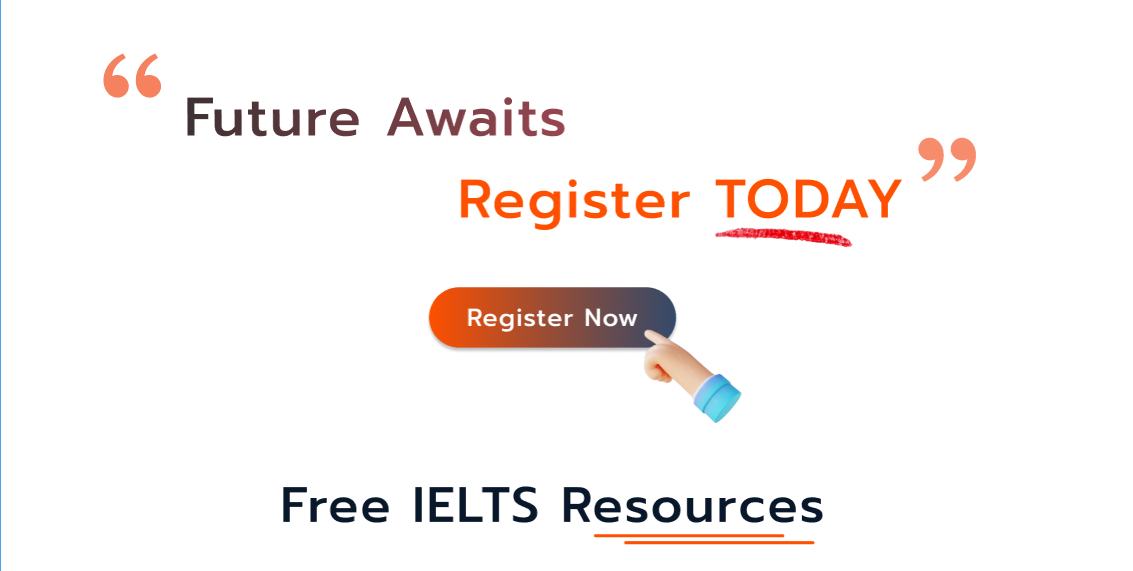
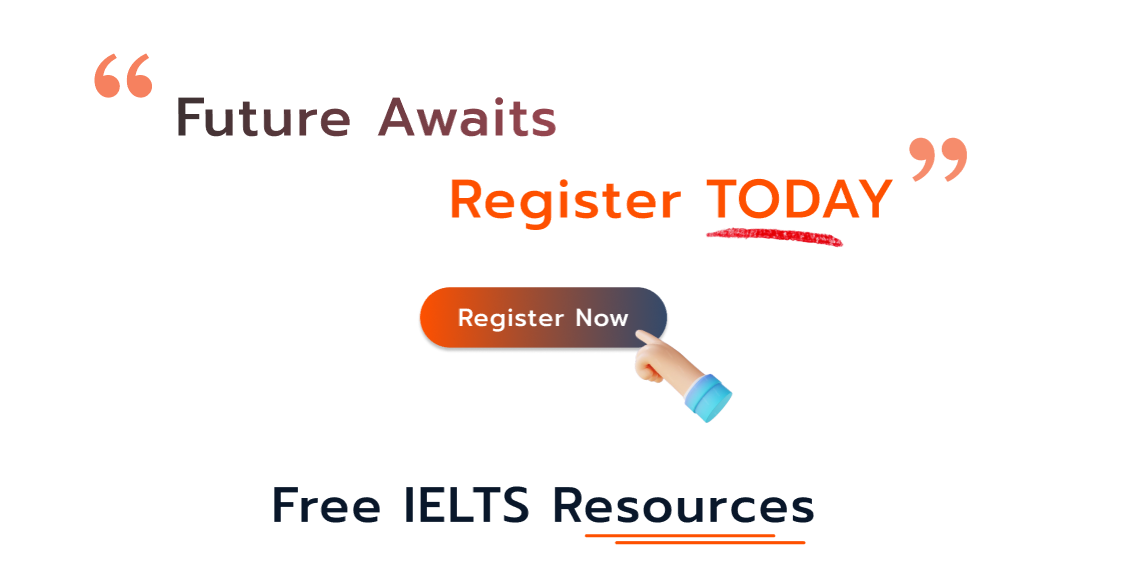
react

diff --git a/public/css/style.css b/public/css/style.css
@@ -488,6 +488,67 @@ border-radius: 30px;
   height: 200px;
 }
 
+.regimg{
+  padding-bottom: 10vh;
+  text-align: center;
+}
+.regimg img{
+  width: 70vw;
+  height: 80vh;
+}
+
+.exam-patern {
+  /* Dark grey background for the container */
+  padding: 20px;
+  border-radius: 8px;
+  width: fit-content;
+  margin: 20px auto;
+  color: #fff; /* White text color for the content */
+}
+
+
+.exam-patern h1{
+  text-align: center;
+  color: black;
+}
+.exam-patern table {
+  width: 100%;
+  border-collapse: collapse;
+  font-family: Arial, sans-serif;
+}
+
+.exam-patern th, .exam-patern td {
+  padding: 10px 15px;
+  text-align: left;
+  border-bottom: 1px solid #ffffff; 
+  color: black;/* Slightly lighter border for separation */
+}
+
+.exam-patern th {
+  width: 30vw;
+  font-size: 25px;
+  height: 7vh;
+  background-color: #555; /* Medium grey for headers */
+  color: #f0f0f0; /* Light text color */
+  font-weight: bold;
+}
+
+.exam-patern td {
+  font-size: 25px;
+  width: 30vw;
+  height: 7vh;
+  background-color: #cacaca; /* Darker background for table cells */
+  color: #000000; /* Light grey text for readability */
+}
+
+.exam-patern tr:nth-child(even) td {
+  background-color: #ffffff; /* Lighter grey for even rows */
+}
+
+.exam-patern tr:hover {
+  background-color: #555; /* Slight hover effect with lighter grey */
+}
+
 @media (max-width: 575.98px) {
   .h2,
   h2 {

diff --git a/src/components/pattern/Pattern.jsx b/src/components/pattern/Pattern.jsx
@@ -1,0 +1,40 @@
+import React from 'react'
+
+function Pattern() {
+  return (
+    <div className='exam-patern'>
+        
+      <h1>Pattern</h1>
+        <table>
+          <tr>
+            <th>Section Name</th>
+            <th>Total Questions</th>
+            <th>Sectional Time</th>
+          </tr>
+          <tr>
+            <td>Listening</td>
+            <td>40 Questions</td>
+            <td>30 mins</td>
+          </tr>
+          <tr>
+            <td>Reading     </td>
+            <td>40 Questions</td>
+            <td>60 mins</td>
+          </tr>
+          <tr>
+            <td>Writing</td>
+            <td>2 Tasks</td>
+            <td>60 mins</td>
+          </tr>
+          <tr>
+            <td>Speaking</td>
+            <td>2 Tasks</td>
+            <td>11-14 mins</td>
+          </tr>
+        </table>
+      </div>
+  )
+}
+
+export default Pattern
+

diff --git a/src/pages/home/home-2/index.jsx b/src/pages/home/home-2/index.jsx
@@ -14,6 +14,10 @@ import Exampage from "@/pages/exampage";
 import BecameSellerPage from "@/pages/become-seller";
 import Examwhat from "@/components/examwhat/Examwhat";
 import OurBlog2 from "@/components/section/OurBlog2";
+import Registerimg from "@/components/registerimg/Registerimg";
+import Pattern from "@/components/pattern/Pattern";
+
+
 const metadata = {
   title: "Freeio - Freelance Marketplace ReactJs Template | Home 2",
 };
@@ -25,6 +29,8 @@ export default function HomePage2() {
       <Exampage/>
       <Examwhat/>
       <OurBlog2/>
+      <Registerimg />
+      <Pattern/>
       <Hero2 />
       <NeedSomething2 />
       <PopularService1 />

diff --git a/src/components/registerimg/Registerimg.jsx b/src/components/registerimg/Registerimg.jsx
@@ -1,0 +1,12 @@
+import React from 'react'
+
+import regimg from '../../../public/images/regimg/reg-img.png';
+function Registerimg() {
+  return (
+    <div className='regimg'>
+      <img src={regimg} />
+    </div>
+  )
+}
+
+export default Registerimg
